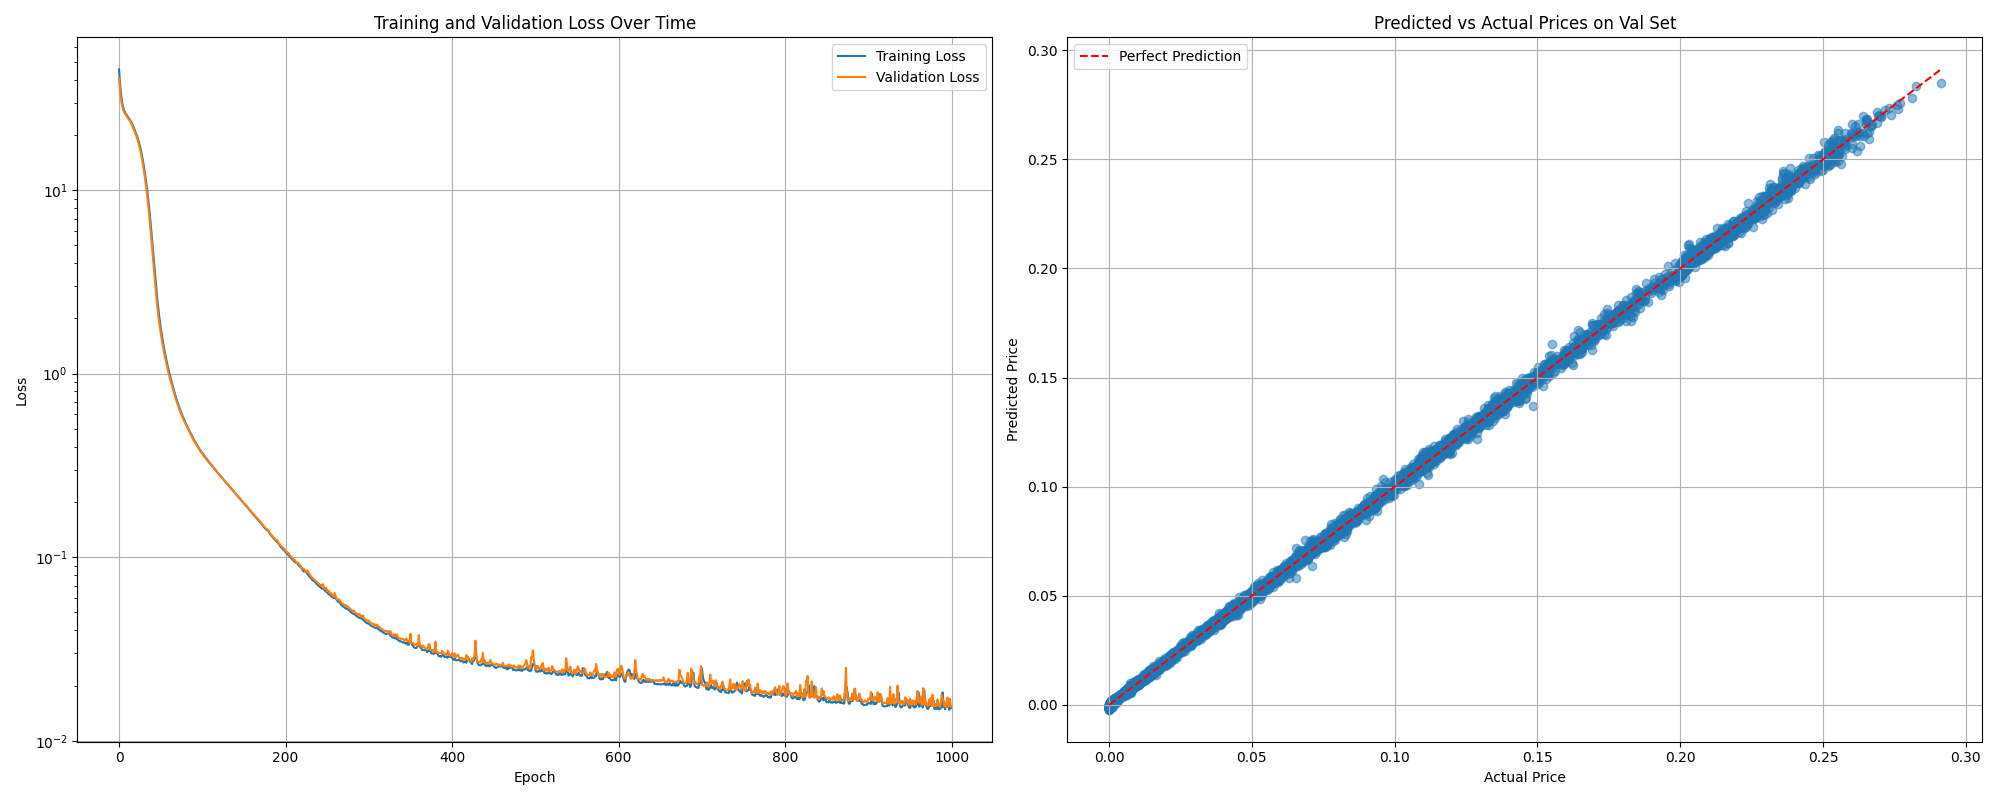
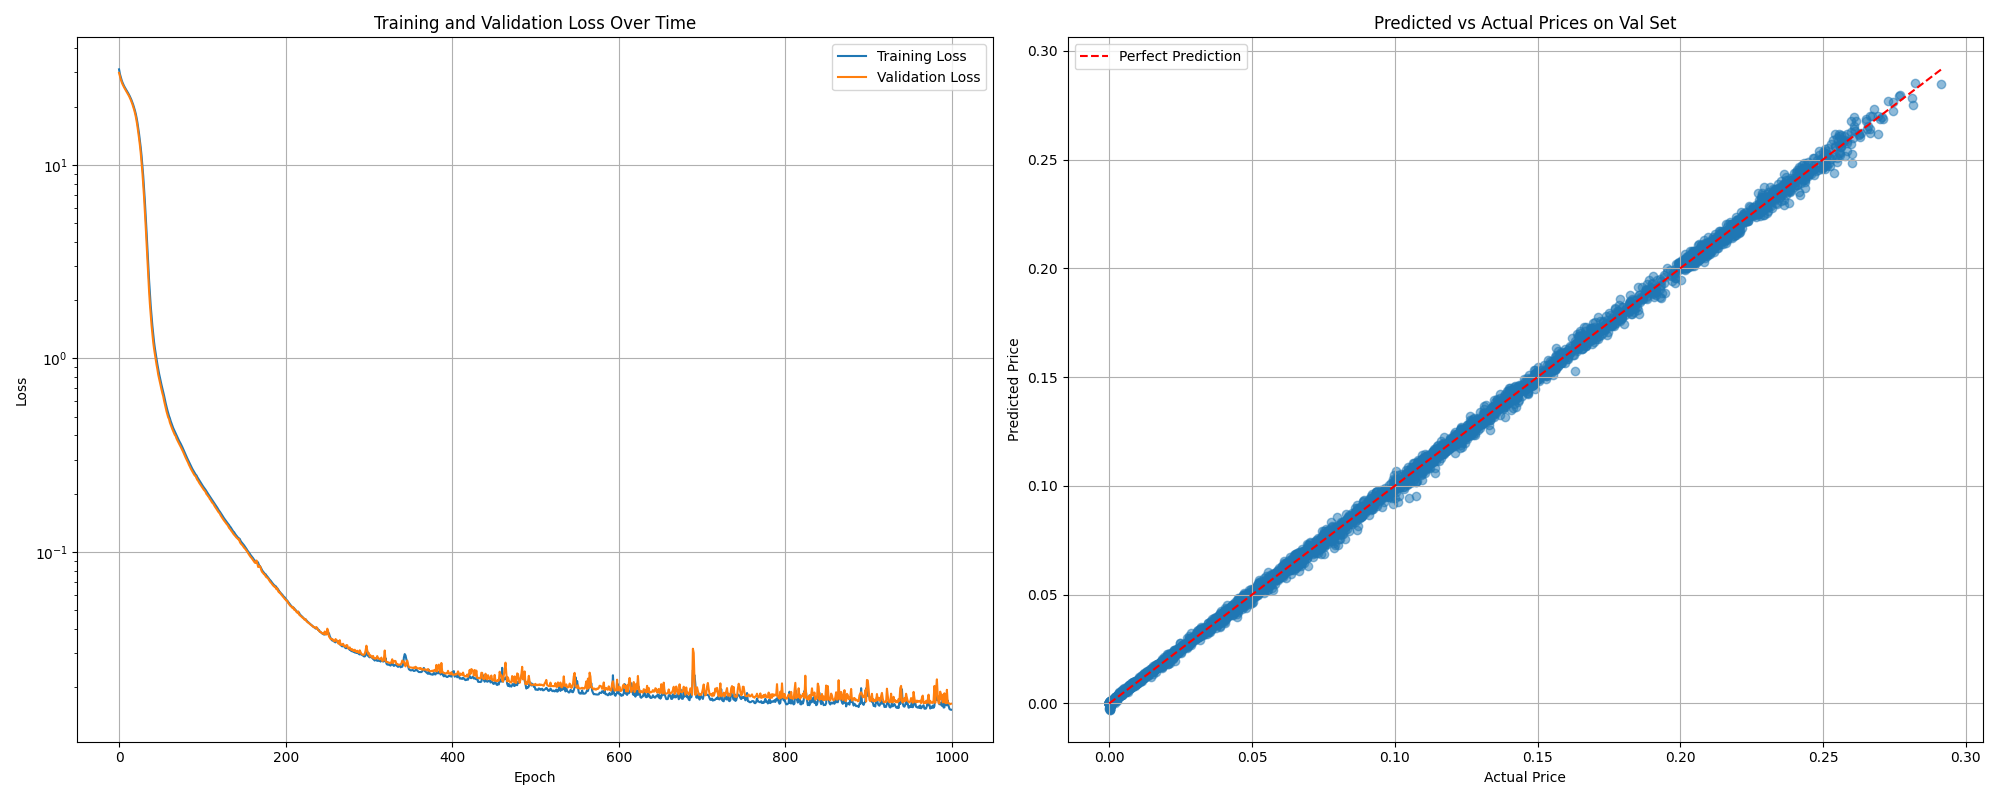
Switched to 252 Nsteps

diff --git a/monte-carlo/data/execution_time.md b/monte-carlo/data/execution_time.md
@@ -1,8 +1,8 @@
-The simulation completed in 3765.66 milliseconds (3.76566 seconds).
+The simulation completed in 7637.67 milliseconds (7.63767 seconds).
 
 > Configuration
 
-- Number of steps: 100
+- Number of steps: 252
 - Number of trajectories: 10000
 - Total parameter combinations: 25000
 - Threads per block: 256
